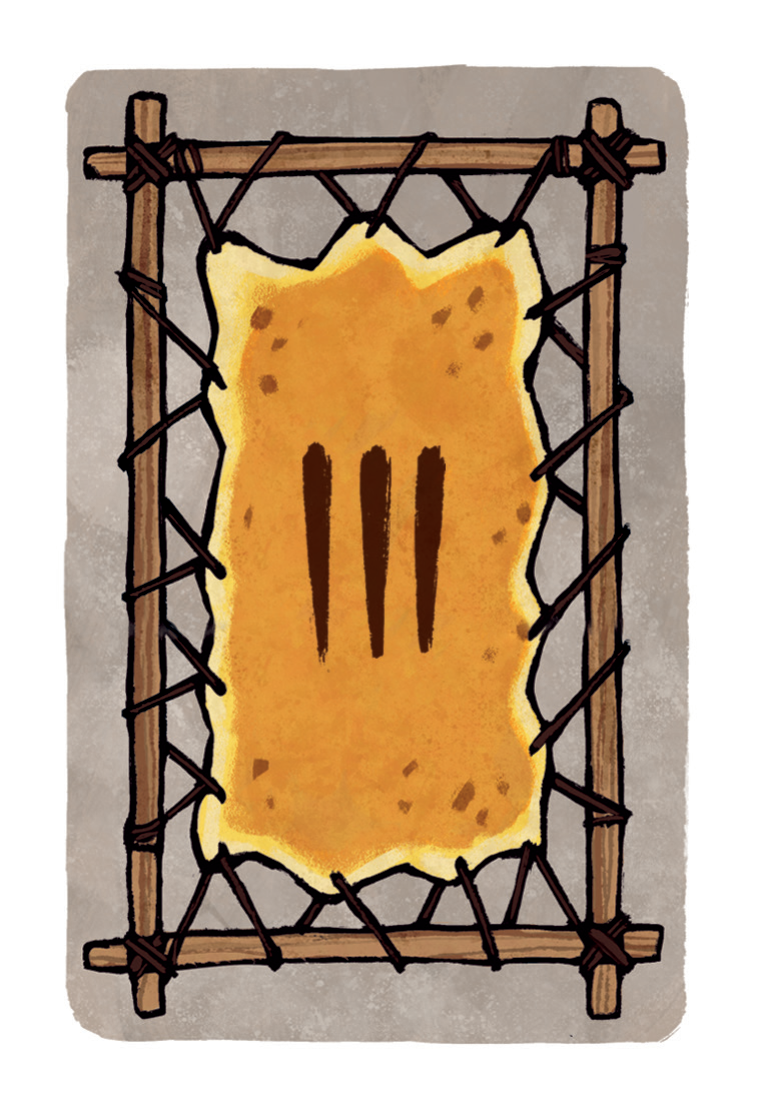
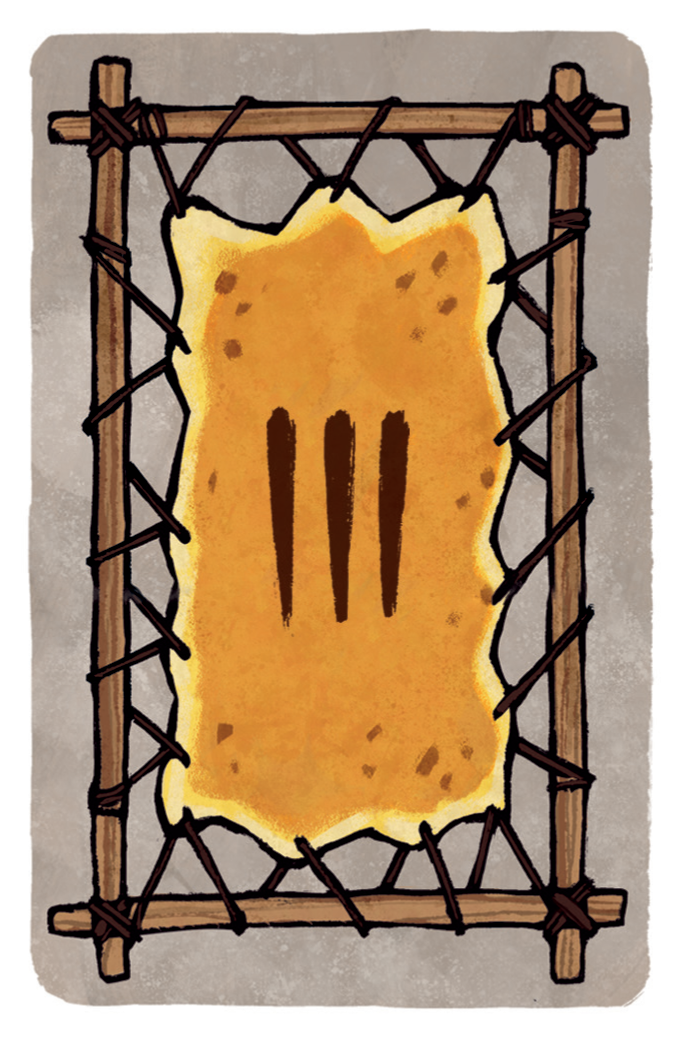
[Feature/BoardController] enhance layout and styling; update background image and spacing

diff --git a/src/main/resources/it/polimi/gc06/mesos/css/board_style.css b/src/main/resources/it/polimi/gc06/mesos/css/board_style.css
@@ -1,6 +1,14 @@
-#boardRoot {
+#root {
     -fx-background-color: #ffffff;
     -fx-padding: 0px;
+    -fx-background-image: url('/mesos.png');
+    -fx-background-size: cover;
+    -fx-background-position: center;
+    -fx-background-repeat: no-repeat;
+}
+
+#boardRoot {
+
 }
 
 .scroll-pane {
@@ -13,48 +21,12 @@
     -fx-background-color: transparent;
 }
 
-/*#topBar {*/
-/*    -fx-background-color: rgba(255, 0, 0, 0.3);*/
-/*}*/
-
-/*!* 1.0/10 - Rosso *!*/
-/*#topRowBox {*/
-/*    -fx-background-color: rgba(255, 165, 0, 0.3);*/
-/*}*/
-
-/*!* 2.5/10 - Arancione *!*/
-/*#centerRowBox {*/
-/*    -fx-background-color: rgba(0, 255, 0, 0.3);*/
-/*}*/
-
-/*!* 2.5/10 - Verde *!*/
-/*#bottomRowBox {*/
-/*    -fx-background-color: rgba(0, 0, 255, 0.3);*/
-/*}*/
-
-/*!* 1.5/10 - Viola *!*/
-
-/*#topCharactersScroll {*/
-/*    -fx-border-color: rgba(255, 165, 0, 0.8);*/
-/*    -fx-border-width: 2px;*/
-/*}*/
-
-/*#buildingsScroll {*/
-/*    -fx-border-color: rgba(200, 100, 0, 0.8);*/
-/*    -fx-border-width: 2px;*/
-/*}*/
-
-/*#bottomCharactersScroll {*/
-/*    -fx-border-color: rgba(0, 0, 255, 0.8);*/
-/*    -fx-border-width: 2px;*/
-/*}*/
-
 #skipButton {
     -fx-background-color: white;
     -fx-border-color: #D3523B;
     -fx-border-width: 2px;
     -fx-text-fill: #D3523B;
-    -fx-padding: 10px 20px;
+    -fx-padding: 15px 25px;
     -fx-border-radius: 12px;
     -fx-background-radius: 12px;
     -fx-font-weight: bold;
@@ -80,4 +52,17 @@
     -fx-border-width: 2px;
     -fx-border-radius: 10px;
     -fx-background-radius: 10px;
+}
+
+/* ========================================================= */
+
+
+#topCharactersContainer,
+#buildingsContainer,
+#bottomCharactersContainer,
+#bottomBuildingsContainer,
+#turnOrderContainer, #offerTrackContainer, #deckContainer {
+    -fx-background-color: rgba(0, 0, 0, 0.4); /* Black with 40% opacity */
+    -fx-background-radius: 10px; /* Rounded corners */
+    -fx-padding: 10px; /* Breathing room around the cards */
 }

diff --git a/src/main/java/it/polimi/gc06/mesos/view/gui/controllers/BoardController.java b/src/main/java/it/polimi/gc06/mesos/view/gui/controllers/BoardController.java
@@ -175,7 +175,7 @@ public class BoardController implements ModelListener {
     @FXML
     public void initialize() {
         setupArchitecturalLayout();
-        updateBottomRowLayout(false);
+        updateBottomRowLayout(true);
         setupDeckPopup();
 
         if (smallModel != null) {
@@ -208,11 +208,15 @@ public class BoardController implements ModelListener {
         opponentsSidebar.prefWidthProperty().bind(mainRoot.widthProperty().multiply(WIDTH_OPPONENTS));
         opponentsSidebar.prefHeightProperty().bind(mainRoot.heightProperty());
 
+        leftZone.setSpacing(10);
+
         final double HEIGHT_BOARD = 0.75;
         final double HEIGHT_INVENTORY = 0.25;
 
         boardRoot.prefHeightProperty().bind(leftZone.heightProperty().multiply(HEIGHT_BOARD));
         inventoryBox.prefHeightProperty().bind(leftZone.heightProperty().multiply(HEIGHT_INVENTORY));
+
+        boardRoot.setSpacing(10);
 
         inventoryBox.setAlignment(Pos.CENTER);
 
@@ -245,13 +249,20 @@ public class BoardController implements ModelListener {
         bottomRowBox.prefHeightProperty().bind(boardRoot.heightProperty().multiply(0.30));
 
         topBar.setAlignment(Pos.CENTER);
-        topBar.setSpacing(300);
+
+        roundText.wrappingWidthProperty().bind(leftZone.widthProperty().divide(3).subtract(100));
+        phaseText.wrappingWidthProperty().bind(leftZone.widthProperty().divide(3).subtract(100));
+        eraText.wrappingWidthProperty().bind(leftZone.widthProperty().divide(3).subtract(100));
+
         roundText.setText("Round " + (smallModel != null ? smallModel.getRound() : "?"));
         roundText.setFont(mesosFont);
+        roundText.setTextAlignment(TextAlignment.CENTER);
         phaseText.setText(smallModel != null ? smallModel.getPhase() : "?");
         phaseText.setFont(mesosFont);
+        phaseText.setTextAlignment(TextAlignment.CENTER);
         eraText.setText(smallModel != null ? smallModel.getEra().toString() : "?");
         eraText.setFont(mesosFont);
+        eraText.setTextAlignment(TextAlignment.CENTER);
 
         topRowBox.setAlignment(Pos.CENTER);
         topRowBox.setSpacing(20);
@@ -263,7 +274,8 @@ public class BoardController implements ModelListener {
         centerRowBox.setSpacing(30);
         deckContainer.prefWidthProperty().bind(leftZone.widthProperty().multiply(0.15));
         deckContainer.setAlignment(Pos.CENTER);
-        deckImage.fitHeightProperty().bind(centerRowBox.heightProperty().multiply(0.85));
+        HBox.setHgrow(deckContainer, Priority.NEVER);
+        deckImage.fitHeightProperty().bind(deckContainer.heightProperty().multiply(0.85));
 
         turnOrderContainer.setAlignment(Pos.CENTER_RIGHT);
         initTurnOrderTile();
@@ -328,16 +340,16 @@ public class BoardController implements ModelListener {
     private void configureInventoryStyle() {
         String color = Totem.getTotem(smallModel.getPlayer().getColor()).getTotemColorRGB();
 
-        String backgroundInventoryStyle = "-fx-background-color: rgba(" + color + ", 0.9);";
+        String backgroundInventoryStyle = "-fx-background-color: rgba(" + color + ", 0.8);";
         String borderInventoryStyle = "-fx-border-color: rgba(" + color + ", 1.0); -fx-border-width: 4px; -fx-border-radius: 10px";
 
         inventoryBox.setStyle(backgroundInventoryStyle + " " + borderInventoryStyle);
 
-        String whiteBoxStyle = "-fx-background-color: rgba(255, 255, 255); -fx-background-radius: 8px;";
-
-        playerCardsContainer.setStyle(whiteBoxStyle);
-        playerStatsBox.setStyle(whiteBoxStyle);
-        tokensBox.setStyle(whiteBoxStyle);
+//        String whiteBoxStyle = "-fx-background-color: rgba(255, 255, 255); -fx-background-radius: 8px;";
+//
+//        playerCardsContainer.setStyle(whiteBoxStyle);
+//        playerStatsBox.setStyle(whiteBoxStyle);
+//        tokensBox.setStyle(whiteBoxStyle);
 
         playerStatsBox.setPadding(new Insets(5));
         tokensBox.setPadding(new Insets(5));
